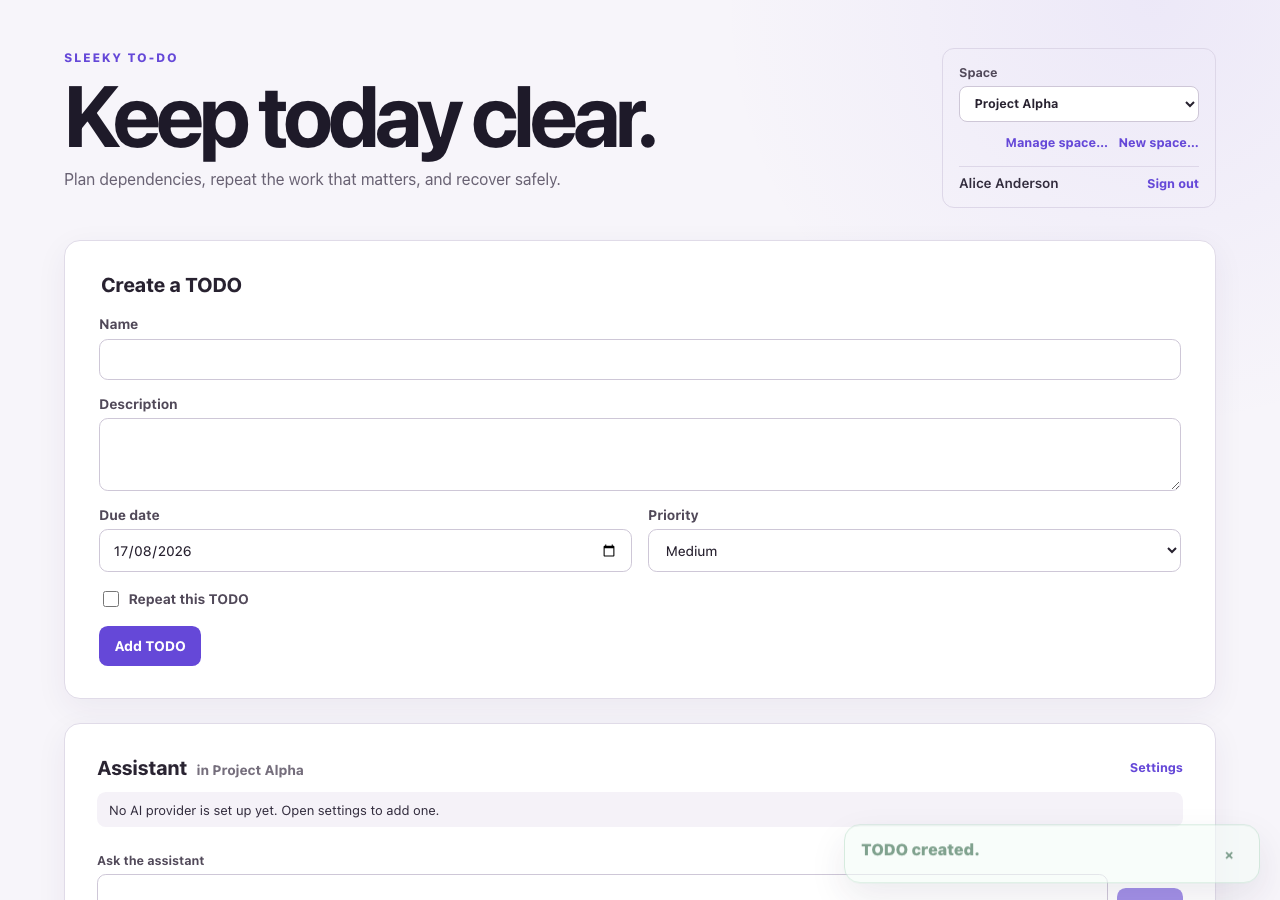
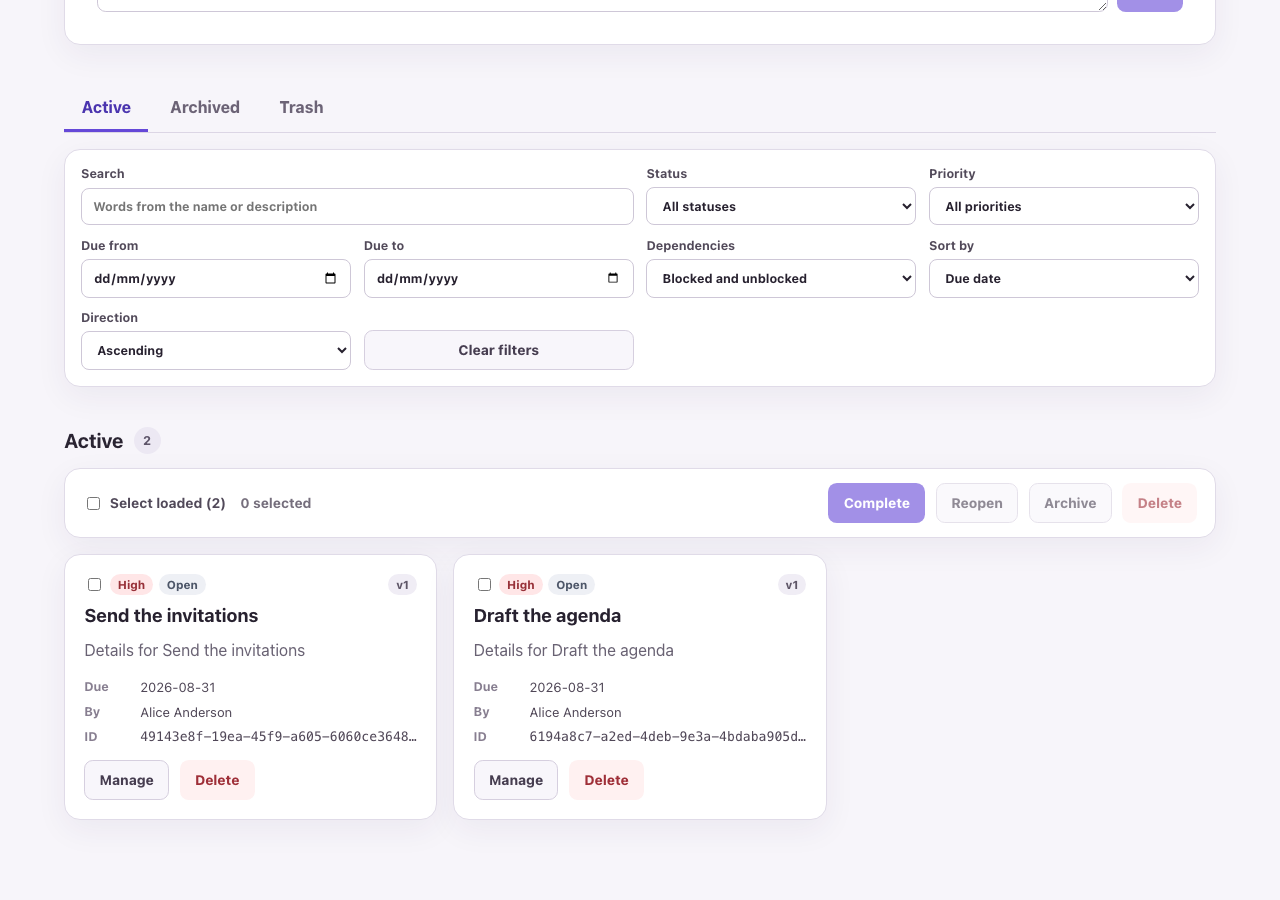
docs: show the list in the README's first images, and record what the code holds
The first and third screenshots showed the create form and a "TODO created"
toast, with the list they were captioned for below the fold. The capture now
scrolls the filters to the top edge before shooting, so the cards — and who
created them — are what the images show. The sample TODO is renamed on the way.

The test counts follow the suites, and the integration line says what those
tests do rather than implying every one needs MongoDB. The short decision log
folds three overlapping bullets into one and says "about two pages", which is
what it is.

The architecture document records three things the code holds that it did
not say: re-completing a reopened occurrence writes only the completion; the
monthly anchor is fixed at creation and an edited due date moves one
occurrence, not the series; and two members adding A → B and B → A at once
each pass a cycle check that cannot see the other's edge — accepted for the
same reason as the membership window, and self-repairing. The rate-limit
paragraphs name the turn route as the one exemption. The Dockerfile comment
that said SPA hosting was still to come is brought up to date.

diff --git a/src/sleeky-todo-web/e2e/screenshots.spec.ts b/src/sleeky-todo-web/e2e/screenshots.spec.ts
@@ -1,4 +1,4 @@
-import { expect, test } from '@playwright/test'
+import { expect, test, type Page } from '@playwright/test'
 
 import { ask, configureAssistant, scriptModel } from './assistant-model.ts'
 import { expectSignedIn, signIn, testUsers } from './auth.ts'
@@ -33,6 +33,20 @@ import {
 const sharedSpaceName = 'Project Alpha'
 const shot = (name: string) => `../../docs/screenshots/${name}.png`
 
+/**
+ * Brings the list into the frame. The create form and the assistant sit above
+ * it, so a shot taken from the top of the page shows the toast that a TODO
+ * was created and none of the TODOs themselves; the filters are scrolled to
+ * the top edge so the cards, and who created them, are what the image shows.
+ */
+async function showTheList(page: Page): Promise<void> {
+  await page.getByRole('button', { name: 'Dismiss' }).click({ timeout: 2_000 }).catch(() => {})
+  await page.getByLabel('TODO filters').evaluate((element) => {
+    element.scrollIntoView({ block: 'start' })
+  })
+  await expect(page.locator('[data-testid^="todo-"]').first()).toBeInViewport()
+}
+
 test('the sharing walkthrough', async ({ browser }) => {
   // Two sign-ins through the real provider, a grant, a downgrade, and two
   // navigations: more round trips than any single test makes.
@@ -55,8 +69,9 @@ test('the sharing walkthrough', async ({ browser }) => {
     await signIn(alice, 'alice')
     await resetUserData(alice)
     await createSpaceThroughUi(alice, sharedSpaceName)
-    await createTodo(alice, 'Draft the brief')
+    await createTodo(alice, 'Draft the agenda')
     await createTodo(alice, 'Send the invitations')
+    await showTheList(alice)
     await alice.screenshot({ path: shot('01-a-space-of-her-own') })
 
     await openSpaceSettings(alice)
@@ -73,8 +88,9 @@ test('the sharing walkthrough', async ({ browser }) => {
     await bob.goto('/')
     await expectSignedIn(bob)
     await switchToSpace(bob, sharedSpaceName)
-    await expect(todoCard(bob, 'Draft the brief')).toHaveCount(1)
+    await expect(todoCard(bob, 'Draft the agenda')).toHaveCount(1)
     await createTodo(bob, 'Book the room')
+    await showTheList(bob)
     await bob.screenshot({ path: shot('03-bob-works-in-it') })
 
     await openSpaceSettings(alice)

diff --git a/src/sleeky-todo-web/e2e/sharing.spec.ts b/src/sleeky-todo-web/e2e/sharing.spec.ts
@@ -47,7 +47,7 @@ test('two people share one list, at the level the owner sets', async ({ browser 
     await signIn(alice, 'alice')
     await resetUserData(alice)
     const alphaId = await createSpaceThroughUi(alice, sharedSpaceName)
-    await createTodo(alice, 'Draft the brief')
+    await createTodo(alice, 'Draft the agenda')
 
     // Alice shares it.
     await openSpaceSettings(alice)
@@ -64,7 +64,7 @@ test('two people share one list, at the level the owner sets', async ({ browser 
     await expectSignedIn(bob)
     await switchToSpace(bob, sharedSpaceName)
     expect(await currentSpaceId(bob)).toBe(alphaId)
-    await expect(todoCard(bob, 'Draft the brief')).toHaveCount(1)
+    await expect(todoCard(bob, 'Draft the agenda')).toHaveCount(1)
     await createTodo(bob, 'Book the room')
 
     // Alice sees what Bob added, once she asks for the page again.
@@ -85,7 +85,7 @@ test('two people share one list, at the level the owner sets', async ({ browser 
     await expectActiveSpace(bob, sharedSpaceName)
     await expect(bob.getByTestId('space-permission')).toContainText('Read-only')
     await expect(createForm(bob)).toHaveCount(0)
-    await expect(todoCard(bob, 'Draft the brief')).toHaveCount(1)
+    await expect(todoCard(bob, 'Draft the agenda')).toHaveCount(1)
 
     // A Read member still sees who is in the Space, and none of the controls.
     await openSpaceSettings(bob)
@@ -106,7 +106,7 @@ test('two people share one list, at the level the owner sets', async ({ browser 
     await expectSignedIn(bob)
     await expect(bob.getByText(unavailableNotice)).toBeVisible()
     await expectActiveSpace(bob, 'My Space')
-    await expect(todoCard(bob, 'Draft the brief')).toHaveCount(0)
+    await expect(todoCard(bob, 'Draft the agenda')).toHaveCount(0)
   } finally {
     await aliceContext.close()
     await bobContext.close()

diff --git a/tests/Sleeky.Todo.IntegrationTests/Api/SpaceSharingApiTests.cs b/tests/Sleeky.Todo.IntegrationTests/Api/SpaceSharingApiTests.cs
@@ -117,7 +117,7 @@ public sealed class SpaceSharingApiTests
     [TestMethod]
     public async Task AWriteGrantGivesTheNewMemberTheSpaceAndItsTodos()
     {
-        Guid aliceTodoId = await CreateTodoAsync(alice, "Draft the brief");
+        Guid aliceTodoId = await CreateTodoAsync(alice, "Draft the agenda");
         using HttpResponseMessage beforeResponse = await bob.GetAsync(Todos);
 
         using HttpResponseMessage grantResponse = await AddAccessAsync(
@@ -141,7 +141,7 @@ public sealed class SpaceSharingApiTests
             .GetProperty("permission").GetInt32()
             .Should().Be((int)SpacePermission.Write);
         readResponse.StatusCode.Should().Be(HttpStatusCode.OK);
-        Names(aliceSees).Should().BeEquivalentTo(["Draft the brief", "Book the room"]);
+        Names(aliceSees).Should().BeEquivalentTo(["Draft the agenda", "Book the room"]);
         CreatorsByName(aliceSees)["Book the room"].Should().Be(bobId);
         bobTodoId.Should().NotBe(aliceTodoId);
     }
@@ -154,7 +154,7 @@ public sealed class SpaceSharingApiTests
     [TestMethod]
     public async Task ADowngradeToReadLeavesTheSpaceVisibleAndTheTodosUntouchable()
     {
-        Guid todoId = await CreateTodoAsync(alice, "Draft the brief");
+        Guid todoId = await CreateTodoAsync(alice, "Draft the agenda");
         _ = await AddAccessAsync(bobId, SpacePermission.Write, version: 1);
 
         using HttpResponseMessage changeResponse = await alice.PutAsJsonAsync(
@@ -177,7 +177,7 @@ public sealed class SpaceSharingApiTests
         readResponse.StatusCode.Should().Be(HttpStatusCode.OK);
         createResponse.StatusCode.Should().Be(HttpStatusCode.Forbidden);
         statusResponse.StatusCode.Should().Be(HttpStatusCode.Forbidden);
-        Names(await ReadJsonAsync(unchangedResponse)).Should().Equal("Draft the brief");
+        Names(await ReadJsonAsync(unchangedResponse)).Should().Equal("Draft the agenda");
     }
 
     /// <summary>
@@ -188,7 +188,7 @@ public sealed class SpaceSharingApiTests
     [TestMethod]
     public async Task ARemovedMemberLosesTheSpaceAndEverythingUnderIt()
     {
-        Guid todoId = await CreateTodoAsync(alice, "Draft the brief");
+        Guid todoId = await CreateTodoAsync(alice, "Draft the agenda");
         _ = await AddAccessAsync(bobId, SpacePermission.Write, version: 1);
 
         using HttpRequestMessage removal = new HttpRequestMessage(

diff --git a/docs/decision-log.md b/docs/decision-log.md
@@ -1,6 +1,6 @@
 # Decision Log
 
-Two pages, in four parts. Mechanisms are described in
+About two pages, in four parts. Mechanisms are described in
 [architecture.md](architecture.md); each decision and the alternatives it
 rejected are in [decision-log-detailed.md](decision-log-detailed.md).
 
@@ -30,9 +30,9 @@ rejected are in [decision-log-detailed.md](decision-log-detailed.md).
 
 - **Layered modular monolith.** API → Application → Domain; Infrastructure
   plugs into the Application/Domain abstractions. Not microservices: nothing
-  needs independent scaling, deployment, team ownership, or availability
-  boundaries, so one deployable stays simple to run while its internal
-  boundaries would still allow extraction.
+  needs independent scaling, deployment, or ownership boundaries, so one
+  deployable stays simple to run while its internal boundaries still allow
+  extraction.
 - **CQRS through MediatR.** Commands carry mutations and domain behaviour,
   queries read projections, and cross-cutting rules (validation, Space access,
   exception translation) are pipeline behaviours. CQRS here separates
@@ -43,63 +43,49 @@ rejected are in [decision-log-detailed.md](decision-log-detailed.md).
   conditional `findOneAndReplace` gives atomic version-matched writes. Accepted:
   transactions need a replica set even locally, blocked state needs a `$lookup`
   rather than a join, and each query pattern needs its own index design.
-- **Space as the collaboration and authorization boundary.**
-  `Space { Id, Name, Access[], Version }`; each access entry
-  `{ SubjectId, SubjectType, Permission }`, `Read < Write < Owner`. The Space
-  owns membership; `Space.Version` protects only Space state — name and access
-  changes.
-- **Todo as an independent business and concurrency boundary.**
-  `Todo { SpaceId, CreatedByUserId, …, Version }`. `CreatedByUserId` is audit
-  information: authorization comes from Space membership, not from who created
-  the TODO. `Todo.Version` protects that one TODO, and a TODO write never
-  increments `Space.Version`, so members editing different TODOs get no false
-  conflicts.
-- **TODOs are separate documents, not embedded in the Space.** An embedded
-  `Todos[]` would grow the Space document towards MongoDB's size limit, make
-  indexing, filtering, and paging harder, put unrelated TODO writes in
-  contention on one document, and turn `Space.Version` into a needless global
-  lock. Each TODO references its Space by `SpaceId`.
+- **Two aggregates, two concurrency boundaries.**
+  `Space { Id, Name, Access[], Version }` with entries
+  `{ SubjectId, SubjectType, Permission }`, `Read < Write < Owner`, owns
+  membership; `Space.Version` covers only its name and access list.
+  `Todo { SpaceId, CreatedByUserId, …, Version }` is a separate document —
+  an embedded `Todos[]` would grow the Space towards MongoDB's size limit, make
+  indexing and paging harder, and put unrelated writes in contention on one
+  document. `CreatedByUserId` is audit information; authorization comes from
+  membership. A TODO write never increments `Space.Version`, so members editing
+  different TODOs get no false conflicts.
 - **Optimistic concurrency.** The client reads `{ Id, Version }` and sends that
   version with each mutation; the repository issues one atomic conditional
   replace — `_id == id AND version == expected`, within the bound Space — that
   increments the version. No match means another writer got there first: HTTP
-  `409 Conflict`, and the client offers to reload rather than overwrite. No
-  locks, no lost updates, no contention between unrelated TODOs. Write safety,
-  not real-time synchronization.
-- **Space authorization pipeline.** HTTP request → MediatR request →
-  `SpaceAccessBehavior` → verify the required permission → bind the authorized
-  Space to `ISpaceScope` → handler → repository → MongoDB. An
-  `ISpaceScopedRequest` declares its Space and required level; the behaviour
-  authorizes before the handler runs, and the repository and list reader take
-  the Space from the bound scope, never from a caller-supplied argument.
-  Authorization and persistence scope are structurally connected — no handler
-  can forget the Space filter, and an unbound scope throws rather than reading
-  every Space. Accepted race: a member removed after the check but before an
-  authorized write reaches MongoDB still lands it; closing that would cost every
-  writer a Space-wide lock for a case the next request corrects.
+  `409 Conflict`, and the client offers to reload rather than overwrite. Write
+  safety, not real-time synchronization.
+- **Space authorization pipeline.** An `ISpaceScopedRequest` declares its Space
+  and required level; `SpaceAccessBehavior` authorizes before the handler runs
+  and binds the Space to `ISpaceScope`, which the repository and list reader
+  read instead of a caller-supplied argument. No handler can forget the Space
+  filter, and an unbound scope throws rather than reading every Space. Accepted
+  race: a member removed after the check but before the write reaches MongoDB
+  still lands it; closing that would cost every writer a Space-wide lock for a
+  case the next request corrects.
 - **404 versus 403.** A non-member gets `404` for the Space and everything
   under it, so the response never confirms the identifier exists. A member
   below the level a route needs gets `403`: they legitimately know the Space
   exists.
-- **Derived dependency blocking.** `IsBlocked` is computed from current
-  dependency state, not persisted. A stored flag would need propagation
-  whenever a prerequisite changes and risks going stale; read-time derivation
-  keeps the dependencies authoritative, at the cost of an aggregation stage per
-  page.
+- **Derived dependency blocking.** `IsBlocked` is computed at read time, not
+  persisted: a stored flag would need propagation whenever a prerequisite
+  changes and risks going stale. The cost is an aggregation stage per page.
 - **Recurrence transaction.** Marking the current occurrence Completed and
   inserting the next one happen in one MongoDB transaction, so neither a
   completed occurrence without a successor nor a successor beside an incomplete
-  occurrence can exist. This is why Compose runs MongoDB as a single-node
-  replica set.
+  one can exist; a unique series index is the second wall. This is why Compose
+  runs MongoDB as a single-node replica set.
 - **Keyset pagination.** Pages are ordered by the requested sort field with
   `_id` as the tie-breaker, and the opaque cursor resumes from that pair: no
-  high-offset scans, suitable for large collections, stable forward paging.
-  Not snapshot pagination — a TODO whose sort field changes between requests
-  may move between pages.
+  high-offset scans, stable forward paging at any size. Not a snapshot — a
+  TODO whose sort field changes between requests may move between pages.
 - **Search.** Word-prefix search over a stored `searchTokens` array,
-  index-backed and combined with the existing filters and cursor. Enough to
-  find a TODO by name without an Elasticsearch-style service; no relevance
-  ranking or arbitrary substring matching.
+  index-backed and combined with the existing filters and cursor; no second
+  service, no relevance ranking, no substring matching.
 - **AI assistant.** Its tools send the same MediatR commands the toolbar does
   and never touch repositories, so it inherits Space authorization and every
   business rule; the turn's Space is authorized before the model is called,
@@ -111,15 +97,15 @@ Left out on purpose, and why — the omissions are as much a decision as the
 implementations.
 
 - **Real-time collaboration.** No SignalR, WebSocket, or SSE change channel.
-  Optimistic concurrency guarantees write safety, but another user's change
-  appears on the next load rather than being pushed. Not required to satisfy
-  the concurrency requirement, and a large expansion of scope.
+  Optimistic concurrency guarantees write safety; another user's change appears
+  on the next load rather than being pushed. Not needed for concurrency, and a
+  large expansion of scope.
 - **Invitations and groups.** An access entry already carries a subject type,
   so a group is a second type plus a lookup; invitation workflows and groups
   were excluded.
 - **Space lifecycle.** No delete Space, leave Space, or move TODO between
-  Spaces: sharing and revoking membership already covers the collaboration
-  this application is for.
+  Spaces: sharing and revoking membership covers the collaboration this
+  application is for.
 - **Scheduled physical purge.** Trash and retention metadata exist; a
   production-grade purge worker does not.
 - **Microservices.** No demonstrated need for independent scaling, deployment,
@@ -134,10 +120,9 @@ implementations.
   (SSE) → clients subscribed to the current Space.
 - **Retention purge worker.** Scheduled cleanup after the Trash retention
   period.
-- **Observability.** OpenTelemetry traces, metrics, and structured production
-  telemetry.
+- **Observability.** OpenTelemetry traces and metrics.
 - **Production schema/index deployment.** Move index management from
-  application startup into an explicit deployment/migration step.
+  application startup into an explicit migration step.
 
 For deeper implementation reasoning and rejected alternatives, see
 `docs/decision-log-detailed.md`.

diff --git a/docs/architecture.md b/docs/architecture.md
@@ -593,6 +593,17 @@ Completing a *non-recurring* TODO records a completion too, but writes only the
 update, so it takes the single-write path like every other status change rather
 than opening a transaction it does not need.
 
+So does completing a reopened occurrence again. Its successor was created the
+first time round and may already have been worked on, so before inserting one
+the handler asks the repository whether the series already holds the next
+position — soft-deleted occupants included, since the unique index counts them
+too — and, when it does, writes only the completion and reports no new
+occurrence. The bulk path asks the same question once for the whole batch. The
+read runs outside the transaction, so it cannot see a successor another
+transaction has inserted but not committed; that case still reaches the unique
+index inside the transaction, which is what `FailedNextOccurrenceInsertionRollsBackCompletion`
+pins.
+
 `ITransactionExecutor` takes the work as a lambda and runs it as one atomic
 unit, committing when it returns and aborting when it throws. It is deliberately
 not a unit of work: nothing is tracked, deferred, or coordinated, and repository
@@ -614,8 +625,14 @@ partial application is safe and self-heals on the next start.
 
 The recurrence calculator preserves a stored monthly anchor rather than adding
 months to a previously clamped date. Thus January 31 becomes February's final
-day and then March 31. New occurrences copy descriptive fields, priority, and
-the schedule, but deliberately start with no dependency IDs.
+day and then March 31. The anchor is fixed when the series is created and is
+not moved by editing an occurrence's due date: the edit moves that occurrence,
+and its successor falls in the month after the edited date, on the series'
+anchor day. New occurrences copy descriptive fields, priority, and the
+schedule, but deliberately start with no dependency IDs. A custom interval is
+capped at 365 of its unit, and a next occurrence that would fall past the last
+representable date is refused as a domain rule rather than failing as
+arithmetic.
 
 ## Bulk status changes and deletion
 
@@ -796,7 +813,14 @@ blocked semantics for query responses and filtering.
 
 All dependency and status writes retain the source TODO's expected version in
 the repository filter. A graph check is therefore followed by the same atomic
-optimistic write used by the CRUD commands.
+optimistic write used by the CRUD commands. The version protects the source
+document, not the graph: two members adding `A → B` and `B → A` at the same
+instant each pass a cycle check that cannot see the other's edge, and both
+writes land. That window is accepted for the same reason as the membership one
+above — closing it needs a Space-wide lock for every dependency write — and its
+outcome is visible and repairable: both TODOs read as blocked until either edge
+is removed. The cycle detector walks through soft-deleted nodes, since a TODO in
+the trash keeps its edges and can be restored.
 
 ## HTTP and error boundary
 
@@ -821,8 +845,9 @@ and its request log name the same caller. Assistant turns are held to a
 per-user concurrency limit applied to that one action by name; every other
 mutation — anything but `GET`, `HEAD`, and `OPTIONS` — passes through a
 per-user fixed window applied globally, which skips anonymous requests
-(authorization has already answered them) and the assistant's own routes, so
-the two limits never compound on one request. Reads are not counted. Queue
+(authorization has already answered them) and the assistant turn route, so
+the two limits never compound on one request; the assistant's settings routes
+are ordinary mutations and stay inside the window. Reads are not counted. Queue
 length is zero on both, because a caller waiting for a permit is holding the
 connection the limit exists to protect. The `RateLimiting` section sets the
 numbers and can turn the whole thing off.

diff --git a/README.md b/README.md
@@ -240,14 +240,15 @@ answers a ping.
 
 ## Tests
 
-804 tests in three layers, each answering a different question.
+812 tests in three layers, each answering a different question.
 
-- **708 .NET tests.** Domain rules with nothing running (90), application
-  handlers against substitutes (241), the assistant's tool and turn layer
-  (154), and 223 integration tests against a real MongoDB — repository and
-  list-reader contracts, and the HTTP API end to end. The database is started
-  per test class by Testcontainers, as a replica set where a transaction is
-  under test.
+- **716 .NET tests.** Domain rules with nothing running (92), application
+  handlers against substitutes (244), the assistant's tool and turn layer
+  (154), and 226 integration tests — repository and list-reader contracts, and
+  the HTTP API end to end, most of them against a real MongoDB started per
+  test class by Testcontainers, as a replica set where a transaction is under
+  test; the rest boot the host without a database to check its startup,
+  hosting, and rate limits.
 - **39 client unit tests** over the logic worth isolating: which Space a URL
   resolves to, how a page of TODOs merges with the one before it, how a status
   code becomes a message.
@@ -312,9 +313,9 @@ data-protection key ring. They are covered in
   flow, and each boundary the code holds: persistence, concurrency, the
   recurring-completion transaction, authentication, the Space boundary, the
   assistant, logging
-- [docs/decision-log.md](docs/decision-log.md) — two pages: how the ambiguous
-  requirements were read, the key trade-offs, what was deliberately not built,
-  and what more time would change
+- [docs/decision-log.md](docs/decision-log.md) — about two pages: how the
+  ambiguous requirements were read, the key trade-offs, what was deliberately
+  not built, and what more time would change
 - [docs/decision-log-detailed.md](docs/decision-log-detailed.md) — every
   decision as it was made, with the alternatives that were rejected
 - [docs/coding-standards.md](docs/coding-standards.md) — the conventions the

diff --git a/docs/decision-log-detailed.md b/docs/decision-log-detailed.md
@@ -662,14 +662,16 @@ The two are wired differently on purpose. The assistant limit is a named
 policy attached to the one action it protects, so it is readable from the
 endpoint. The mutation limit is the global limiter with a predicate: it
 partitions to no limiter for `GET`, `HEAD`, and `OPTIONS`, for anonymous
-requests, and for anything under `/api/assistant`. Reads are left alone
+requests, and for the turn route `/api/assistant/turns`. Reads are left alone
 because they hold nothing past the response and paging a long list is the one
 thing a well-behaved client does in a tight loop. Anonymous callers get no
 limiter rather than a shared bucket, because authorization has already refused
 them by the time the limiter runs — the middleware sits after it — and one
 shared partition for everything unauthenticated would let any caller exhaust it
-for the rest. The assistant path is excluded so the limit a user actually hits
-is one number rather than the interaction of two.
+for the rest. The turn route is excluded so the limit a user actually hits is
+one number rather than the interaction of two; the assistant's settings routes
+carry no policy of their own — one of them opens an outbound connection to a
+host the user names — so they stay inside the window like any other mutation.
 
 Queue length is zero on both. A caller waiting for a permit is holding open the
 connection the limit exists to protect, so refusing at once says the same thing
